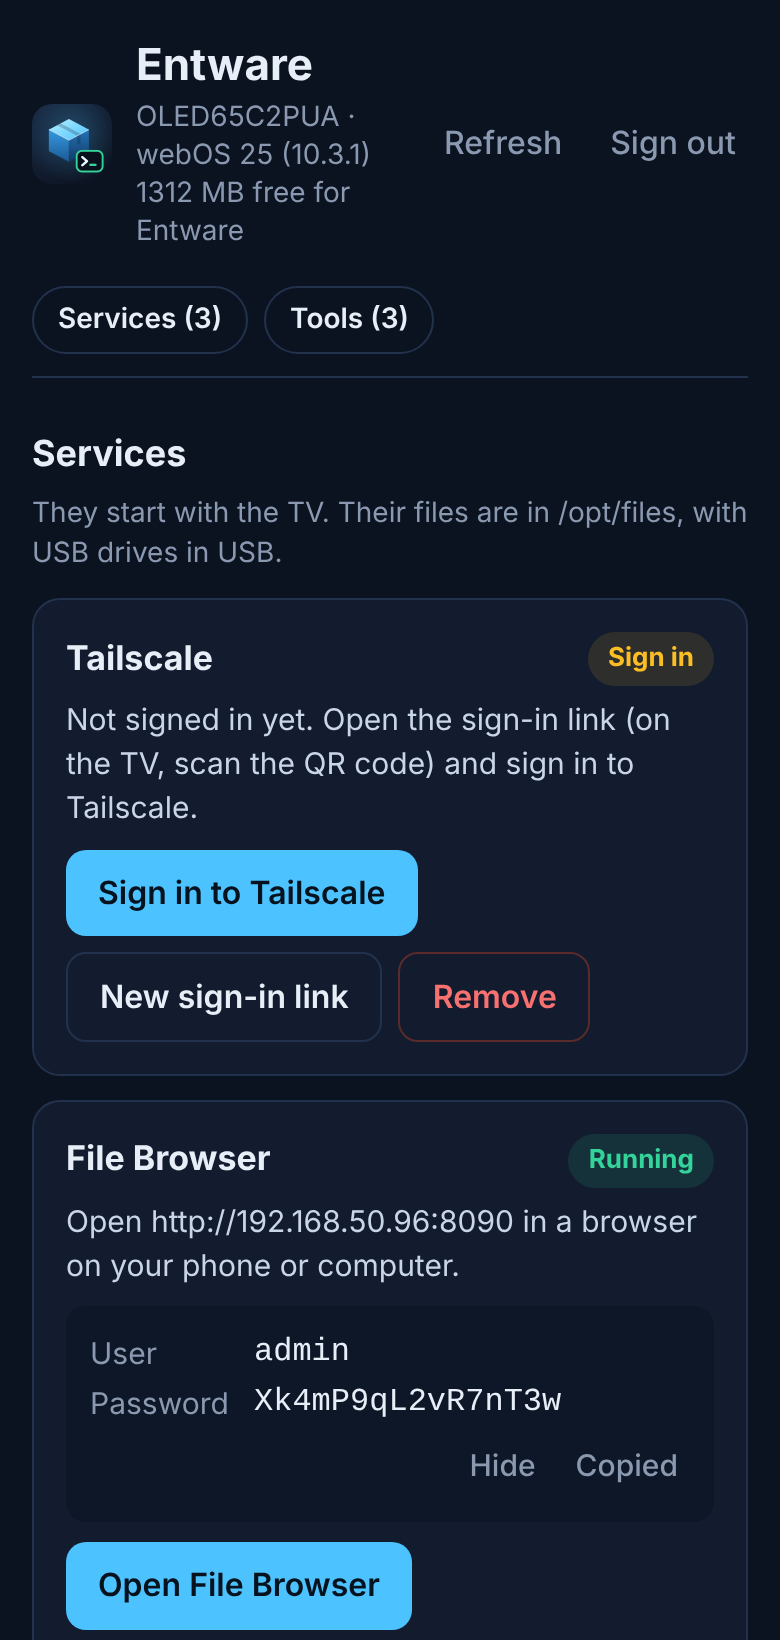
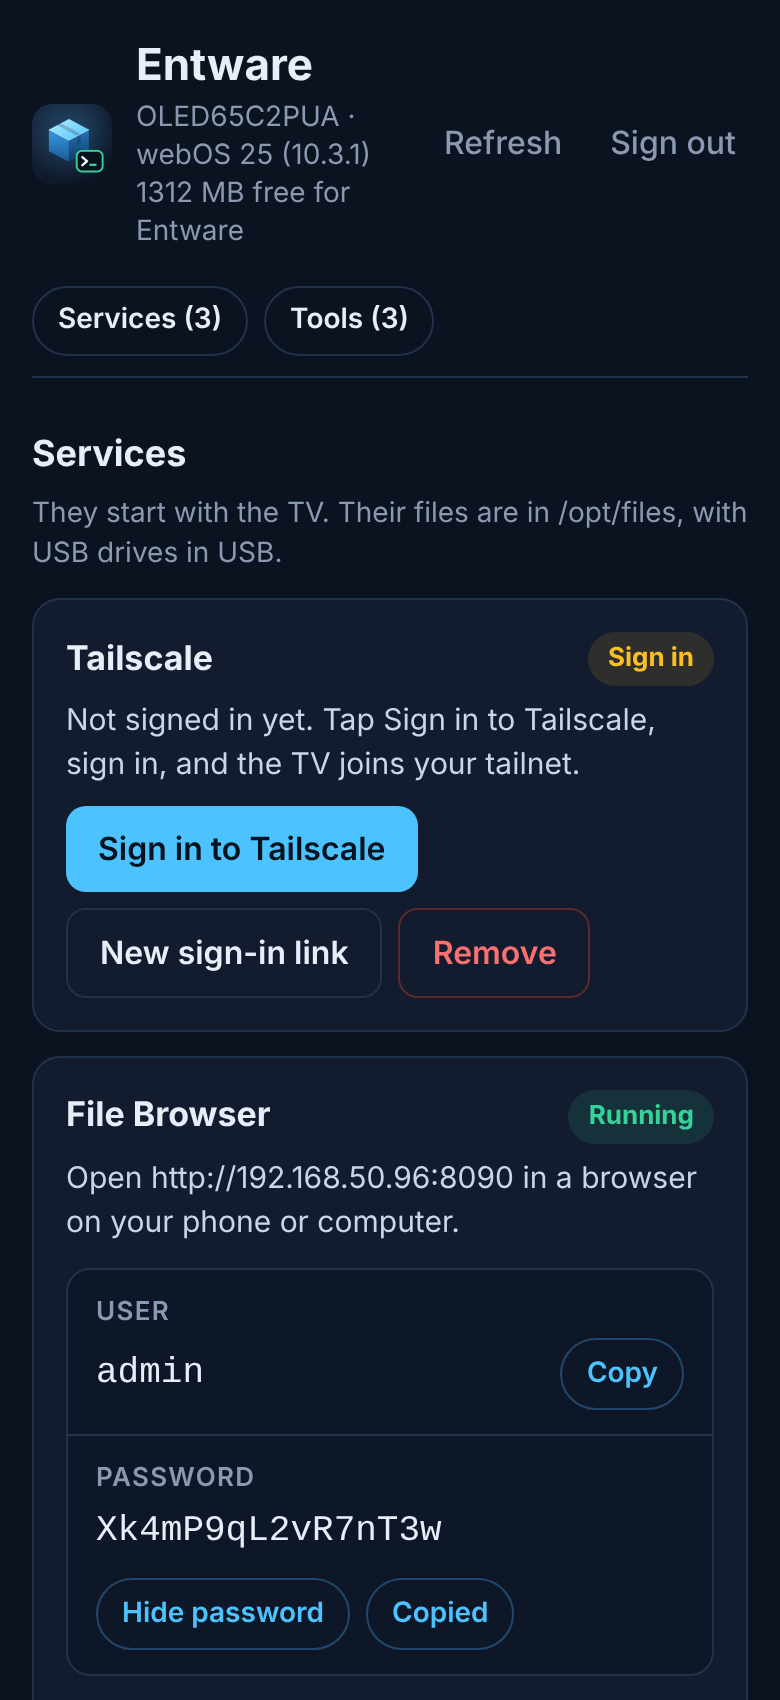
Phone dashboard logins, and lists that don't reload on BACK
The dashboard shows the user and the password each on their own line,
with Copy by the user and Show password and Copy password right under
the password.  In the TV app, backing out of a package, an add-on or a
log shows the list again as it was; it's read from the TV again only
after a task may have changed it.

diff --git a/webos-app/src/app.js b/webos-app/src/app.js
@@ -260,13 +260,16 @@
         if (backTo) {
             var b = backTo;
             backTo = '';
+            // A list just shown is drawn again as it was; it's read again
+            // from the TV only after a task may have changed it
             if (b === 'updates') { openUpdates(false); } else if (b === 'report') { openReportMenu(); }
-            else if (b === 'packages') { openPackages(); } else if (b === 'logs') { openLogs(); }
+            else if (b === 'packages') { if (fresh.packages && pkgList) { renderPackages(); } else { openPackages(); } }
+            else if (b === 'logs') { if (fresh.logs && logData) { renderLogs(); } else { openLogs(); } }
             else if (b === 'addoninfo' && addonInfo && addonInfo.addon) { openAddonInfo(addonInfo.addon); }
             else {
                 // Back on the add-on that was open
                 if (addonInfo) { listIndex = addonInfo.index; addonInfo = null; }
-                openAddons();
+                if (fresh.addons && addons.length) { renderAddons(); } else { openAddons(); }
             }
             return;
         }
@@ -312,8 +315,13 @@
     }
 
     // Start a task in the background, then follow it
+    // Lists read from the TV that are still current, until a task runs
+    var fresh = { addons: false, packages: false, logs: false };
+    function stale() { fresh.addons = fresh.packages = fresh.logs = false; }
+
     function startJob(name) {
         if (busy || !/^(install|uninstall|locate|upgrade|app-update|(upgrade|pkg-add|pkg-remove) [A-Za-z0-9][A-Za-z0-9._+-]*|(add|remove|password) [a-z0-9]+|move (user|appstore))$/.test(name)) { return; }
+        stale();
         busy = true;
         overlay('busy', '<span class="spinner"></span>' + esc(jobTitle(name)), logHtml(['Starting…']), 'You can leave the app open, or press BACK later.  The task keeps going either way.');
         runScript('job ' + name, function (ok, out) {
@@ -386,6 +394,7 @@
                 return;
             }
             addons = list;
+            fresh.addons = true;
             if (listIndex > addons.length) { listIndex = 0; }
             renderAddons();
         });
@@ -676,7 +685,7 @@
         },
         upgrade: function () { listIndex = 0; openUpdates(!!(state && (state.updatesAgeHours === null || state.updatesAgeHours >= 24))); },
         addons: function () { listIndex = 0; openAddons(); },
-        packages: function () { listIndex = 0; pkgQuery = ''; openPackages(); },
+        packages: function () { listIndex = 0; pkgQuery = ''; pkgList = null; openPackages(); },
         move: function () {
             if (!state) { return; }
             confirmThen('Move Entware to app storage?',
@@ -754,6 +763,7 @@
             if (!pkgQuery) {
                 busy = false;
                 pkgList = inst;
+                fresh.packages = true;
                 renderPackages();
                 return;
             }
@@ -766,6 +776,7 @@
                     backTo = 'packages';
                     return;
                 }
+                fresh.packages = true;
                 renderPackages();
             });
         });
@@ -863,26 +874,30 @@
         runScript('logs --json', function (ok, out) {
             busy = false;
             logData = parseJson(out) || { boot: [], tasks: [] };
-            var boot = logData.boot || [];
-            logRows = [{ kind: 'check', title: 'Full check', sub: 'everything doctor looks at, checked now', pill: 'Run' },
-                { kind: 'boot', title: 'Boot log', sub: boot.length ? boot.length + ' lines this boot, last: ' + boot[boot.length - 1] : 'nothing yet this boot', pill: 'View' }];
-            (logData.tasks || []).forEach(function (t) {
-                logRows.push({ kind: 'task', id: t.id, title: jobTitle(t.name), sub: (t.when || '') + '  ·  ' + (t.exit === 0 ? 'done' : 'something went wrong'),
-                    pill: 'View', bad: t.exit !== 0 });
-            });
-            if (logRows.length === 2) { logRows.push({ kind: 'none', title: 'No tasks yet', sub: 'installs, add-ons and updates you run from this app show up here', pill: '' }); }
-            if (listIndex >= logRows.length) { listIndex = 0; }
-            var html = '<div class="addons" id="addon-list">' + logRows.map(function (r, i) {
-                return '<div class="addon" data-i="' + i + '"><div><b>' + esc(r.title) + '</b><small>' + esc(r.sub) + '</small></div>' +
-                    (r.pill ? '<span class="pill ' + (r.bad ? 'pill-warn' : 'pill-add') + '">' + esc(r.pill) + '</span>' : '') + '</div>';
-            }).join('') + '</div>';
-            overlay('logs', 'Full check and logs', html, 'OK opens one.  BACK to close.');
-            Array.prototype.slice.call(document.querySelectorAll('.addon')).forEach(function (row) {
-                row.addEventListener('mouseover', function () { focusAddon(parseInt(row.getAttribute('data-i'), 10)); });
-                row.addEventListener('click', function (e) { e.stopPropagation(); focusAddon(parseInt(row.getAttribute('data-i'), 10)); chooseLog(); });
-            });
-            focusAddon(listIndex);
+            fresh.logs = true;
+            renderLogs();
         });
+    }
+    function renderLogs() {
+        var boot = logData.boot || [];
+        logRows = [{ kind: 'check', title: 'Full check', sub: 'everything doctor looks at, checked now', pill: 'Run' },
+            { kind: 'boot', title: 'Boot log', sub: boot.length ? boot.length + ' lines this boot, last: ' + boot[boot.length - 1] : 'nothing yet this boot', pill: 'View' }];
+        (logData.tasks || []).forEach(function (t) {
+            logRows.push({ kind: 'task', id: t.id, title: jobTitle(t.name), sub: (t.when || '') + '  ·  ' + (t.exit === 0 ? 'done' : 'something went wrong'),
+                pill: 'View', bad: t.exit !== 0 });
+        });
+        if (logRows.length === 2) { logRows.push({ kind: 'none', title: 'No tasks yet', sub: 'installs, add-ons and updates you run from this app show up here', pill: '' }); }
+        if (listIndex >= logRows.length) { listIndex = 0; }
+        var html = '<div class="addons" id="addon-list">' + logRows.map(function (r, i) {
+            return '<div class="addon" data-i="' + i + '"><div><b>' + esc(r.title) + '</b><small>' + esc(r.sub) + '</small></div>' +
+                (r.pill ? '<span class="pill ' + (r.bad ? 'pill-warn' : 'pill-add') + '">' + esc(r.pill) + '</span>' : '') + '</div>';
+        }).join('') + '</div>';
+        overlay('logs', 'Full check and logs', html, 'OK opens one.  BACK to close.');
+        Array.prototype.slice.call(document.querySelectorAll('.addon')).forEach(function (row) {
+            row.addEventListener('mouseover', function () { focusAddon(parseInt(row.getAttribute('data-i'), 10)); });
+            row.addEventListener('click', function (e) { e.stopPropagation(); focusAddon(parseInt(row.getAttribute('data-i'), 10)); chooseLog(); });
+        });
+        focusAddon(listIndex);
     }
 
     function chooseLog() {

diff --git a/webos-app/web/dash.js b/webos-app/web/dash.js
@@ -163,7 +163,9 @@
 
     // Copies without the clipboard API, which browsers only give https pages
     function copy(text, btn) {
-        var done = function () { btn.textContent = 'Copied'; setTimeout(function () { btn.textContent = 'Copy'; }, 2000); };
+        var label = btn.getAttribute('data-label') || btn.textContent;
+        btn.setAttribute('data-label', label);
+        var done = function () { btn.textContent = 'Copied'; setTimeout(function () { btn.textContent = label; }, 2000); };
         if (navigator.clipboard && window.isSecureContext) {
             navigator.clipboard.writeText(text).then(done, function () { copyOld(text, done); });
             return;
@@ -181,21 +183,32 @@
         document.body.removeChild(t);
     }
 
+    // The service's user and password: each on its own line, with its
+    // buttons right under it
     function loginBox(a, info) {
         var box = el('div', 'login');
-        var u = el('div'); u.appendChild(el('span', '', 'User')); u.appendChild(el('code', '', info.user));
-        var p = el('div'); p.appendChild(el('span', '', 'Password'));
-        var code = el('code', '', reveal[a.id] ? info.password : '••••••••••••');
-        p.appendChild(code);
-        box.appendChild(u); box.appendChild(p);
-        var tools = el('div', 'login-tools');
-        tools.appendChild(button(reveal[a.id] ? 'Hide' : 'Show', 'link', function (e) {
+        var uf = el('div', 'field');
+        uf.appendChild(el('label', '', 'User'));
+        var uv = el('div', 'value');
+        uv.appendChild(el('code', '', info.user));
+        uv.appendChild(button('Copy', 'chip', function (e) { copy(info.user, e.target); }, true));
+        uf.appendChild(uv);
+        var pf = el('div', 'field');
+        pf.appendChild(el('label', '', 'Password'));
+        var pv = el('div', 'value');
+        var code = el('code', 'pw', reveal[a.id] ? info.password : '••••••••••••');
+        pv.appendChild(code);
+        pf.appendChild(pv);
+        var chips = el('div', 'chips');
+        var eye = button(reveal[a.id] ? 'Hide password' : 'Show password', 'chip', function () {
             reveal[a.id] = !reveal[a.id];
             code.textContent = reveal[a.id] ? info.password : '••••••••••••';
-            e.target.textContent = reveal[a.id] ? 'Hide' : 'Show';
-        }, true));
-        tools.appendChild(button('Copy', 'link', function (e) { copy(info.password, e.target); }, true));
-        box.appendChild(tools);
+            eye.textContent = reveal[a.id] ? 'Hide password' : 'Show password';
+        }, true);
+        chips.appendChild(eye);
+        chips.appendChild(button('Copy password', 'chip', function (e) { copy(info.password, e.target); }, true));
+        pf.appendChild(chips);
+        box.appendChild(uf); box.appendChild(pf);
         return box;
     }
 
@@ -305,7 +318,9 @@
         if (a.state === 'notInstalled') {
             card.appendChild(el('p', '', a.about + '.'));
         } else {
-            (info.lines || []).forEach(function (l) { card.appendChild(el('p', '', l)); });
+            // The installer's wording is for the TV; on the phone, the link is right here
+            var lines = a.id === 'tailscale' && info.url ? ['Not signed in yet.  Tap Sign in to Tailscale, sign in, and the TV joins your tailnet.'] : (info.lines || []);
+            lines.forEach(function (l) { card.appendChild(el('p', '', l)); });
             if (info.user) { card.appendChild(loginBox(a, info)); }
             if (done[a.id]) { card.appendChild(el('p', 'msg ok', done[a.id])); delete done[a.id]; }
         }

diff --git a/tests/web-test.js b/tests/web-test.js
@@ -153,10 +153,16 @@ const sleep = (ms) => new Promise((r) => setTimeout(r, ms));
         check('tools on the TV come first, then the ones to add', /nano/.test(await page.textContent('#tools-have')) && /htop/.test(await page.textContent('#tools-more')) && !/htop/.test(await page.textContent('#tools-have')));
         check('a tool webOS already has says so', /webOS already has its own/.test(await page.textContent('#tools-more')));
         check('the password is hidden until you show it', !/Xk4mP9qL2vR7nT3w/.test(await page.textContent('#services')));
-        await page.click('#svc-filebrowser >> text=Show');
+        await page.click('#svc-filebrowser >> text=Show password');
+        check('the button says what it does, and turns into Hide password', /Hide password/.test(await page.textContent('#svc-filebrowser .login')));
         check('and Show reveals it', /Xk4mP9qL2vR7nT3w/.test(await page.textContent('#svc-filebrowser')));
-        await page.click('#svc-filebrowser >> text=Copy');
-        check('Copy works on a plain http page too', await page.textContent('#svc-filebrowser .login-tools') .then((t) => /Copied/.test(t)));
+        await page.click('#svc-filebrowser >> text=Copy password');
+        check('Copy password works on a plain http page too', /Copied/.test(await page.textContent('#svc-filebrowser .login .chips')));
+        check('the user has its own Copy, on its line', await page.$eval('#svc-filebrowser .field .value', (v) => /admin/.test(v.textContent) && /Copy/.test(v.textContent)));
+        check('the password\'s buttons sit right under it, not off to a corner', await page.$eval('#svc-filebrowser .login', (l) => {
+            const pw = l.querySelector('.pw').getBoundingClientRect(), b = l.querySelector('.chips button').getBoundingClientRect();
+            return b.top >= pw.bottom && b.top - pw.bottom < 30 && Math.abs(b.left - pw.left) < 4;
+        }));
         check('Open names the service and opens it in a new tab', await page.$eval('#svc-filebrowser a.btn', (a) => /Open File Browser/.test(a.textContent) && a.target === '_blank' && a.href === 'http://192.168.50.96:8090/'));
         check('nothing scrolls sideways on a small phone', await page.evaluate(() => document.documentElement.scrollWidth <= window.innerWidth));
         await page.screenshot({ path: path.join(OUT, 'web-dashboard.png'), fullPage: true });

diff --git a/tests/ui-test.js b/tests/ui-test.js
@@ -214,6 +214,7 @@ function check(name, cond) {
     await press(page, 'Escape');
     await page.waitForSelector('.addon.focus');
     check('BACK on the question returns to the list, same row', /htop/.test(await page.$eval('.addon.focus', (r) => r.textContent)));
+    check('without reading the add-ons again', (await page.evaluate(() => window.ENTWARE_CALLS.filter((c) => c === 'addons --json').length)) === 1);
 
     // Add it for real
     await press(page, 'Enter');
@@ -371,8 +372,10 @@ function check(name, cond) {
     await press(page, 'ArrowDown');
     await press(page, 'Enter');
     check('the boot log shows', /Boot log/.test(await overlayTitle(page)) && /mounted \/opt/.test(await page.textContent('#overlay-body')));
+    const logReads = await page.evaluate(() => window.ENTWARE_CALLS.filter((c) => c === 'logs --json').length);
     await press(page, 'Escape');
     await page.waitForSelector('.addon.focus');
+    check('and BACK shows the list again without reading the logs again', (await page.evaluate(() => window.ENTWARE_CALLS.filter((c) => c === 'logs --json').length)) === logReads);
     await press(page, 'ArrowDown');
     await press(page, 'Enter');
     await page.waitForFunction(() => /Install and repair/.test(document.getElementById('overlay-title').textContent));
@@ -436,8 +439,11 @@ function check(name, cond) {
     await press(page, 'ArrowDown', 3);
     await press(page, 'Enter');
     check('asks before removing a package', /Remove tmux\?/.test(await overlayTitle(page)));
+    const reads = await page.evaluate(() => window.ENTWARE_CALLS.filter((c) => c === 'installed --json').length);
     await press(page, 'Escape');
     await page.waitForSelector('#pkg-q');
+    check('BACK on the question shows the list again straight away, without reading it again',
+        await page.evaluate(() => window.ENTWARE_CALLS.filter((c) => c === 'installed --json').length) === reads && /tmux/.test(await page.$eval('.addon.focus', (r) => r.textContent)));
     await press(page, 'ArrowUp', 5);
     await press(page, 'ArrowDown');
     await press(page, 'Enter');

diff --git a/webos-app/web/dash.css b/webos-app/web/dash.css
@@ -40,11 +40,15 @@ input:focus { outline: 2px solid var(--blue); outline-offset: 1px; }
 .pill-ok { color: var(--green); background: rgba(52, 211, 153, .12); }
 .pill-warn { color: var(--amber); background: rgba(251, 191, 36, .12); }
 .pill-off { color: var(--dim); background: rgba(138, 153, 176, .12); }
-.login { margin: 10px 0; padding: 10px 12px; border-radius: 10px; background: #0e1727; font-size: 15px; }
-.login div { display: flex; align-items: center; gap: 8px; margin: 2px 0; }
-.login span { color: var(--dim); width: 74px; flex: none; }
-.login code { font-family: ui-monospace, Menlo, Consolas, monospace; font-size: 16px; word-break: break-all; flex: 1; user-select: all; }
-.login-tools { display: flex; justify-content: flex-end; gap: 4px; margin-top: 2px; }
+.login { margin: 12px 0; border-radius: 12px; background: #0e1727; border: 1px solid var(--line); }
+.field { padding: 12px 14px; }
+.field + .field { border-top: 1px solid var(--line); }
+.field label { display: block; color: var(--dim); font-size: 13px; font-weight: 600; text-transform: uppercase; letter-spacing: .05em; margin-bottom: 4px; }
+.field .value { display: flex; align-items: center; gap: 10px; }
+.field code { flex: 1; min-width: 0; font-family: ui-monospace, Menlo, Consolas, monospace; font-size: 18px; color: var(--text); word-break: break-all; user-select: all; }
+.chips { display: flex; flex-wrap: wrap; gap: 8px; margin-top: 10px; }
+button.chip { min-height: 36px; padding: 6px 12px; font-size: 14px; font-weight: 600; border-radius: 999px; background: transparent; color: var(--blue); border: 1px solid #23476b; }
+button.chip:active { background: #10243a; }
 .row { display: flex; flex-wrap: wrap; gap: 8px; margin-top: 10px; }
 .pwform { margin-top: 12px; padding-top: 12px; border-top: 1px solid var(--line); }
 .pwform input { margin-bottom: 8px; }

diff --git a/CHANGELOG.md b/CHANGELOG.md
@@ -11,6 +11,8 @@ All notable changes to the WebOS Entware installer.  Versions follow [semantic v
 ### Changed
 
 - **Passwords can have symbols:** any 12 to 64 characters you can type, with no spaces and not starting with -.  Before, only a few symbols were allowed.
+- **The phone dashboard's logins read better:** the user and the password each have their own line, with **Copy** next to the user and **Show password** and **Copy password** right under the password.
+- **Back to a list is instant in the TV app:** backing out of a package, an add-on or a log shows the list again as it was, without reading it from the TV again.  It's read again only after a task may have changed it.
 - **Clearer password choices:** on the phone dashboard, **Change password** opens one place with **Make a random one for me** or your own, with **Show** to see what you typed.  On the TV, the choice is **New random password**.
 
 ## [2.13.0] - 2026-11-04
